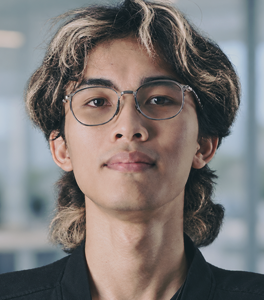
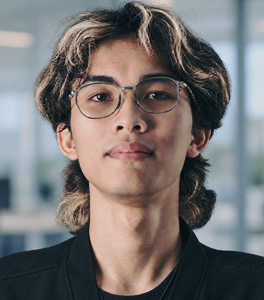
Photos: Nicho-matched crop with head room, more contrast; fixed supergraphic column

diff --git a/DmitryKorpachev.html b/DmitryKorpachev.html
@@ -2,11 +2,11 @@
 <!-- Altriix email signature, option B (photo right). Images are hosted; no CSS backgrounds, so Outlook keeps every element. -->
 <table width="480" cellpadding="0" cellspacing="0" border="0" bgcolor="#FFFFFF" style="width:480px; border-collapse:collapse; border:1px solid #ECEEF1; background-color:#FFFFFF;"><tr>
 <td width="348" valign="top" style="width:348px; padding:0;">
-  <table width="348" cellpadding="0" cellspacing="0" border="0" style="width:348px; border-collapse:collapse;">
+  <table width="348" cellpadding="0" cellspacing="0" border="0" style="width:348px; border-collapse:collapse; table-layout:fixed;">
     <tr>
       <td width="148" height="66" valign="top" style="width:148px; height:66px; padding:12px 0 0 12px;"><a href="https://altriix.ai" style="text-decoration:none;"><img src="https://ibnuirgiy-ops.github.io/altriix-email-assets/altriix-logo-navy.png" alt="Altriix" width="57" height="19" style="width:57px; height:19px; display:block; border:0;" /></a></td>
       <td width="54" height="78" valign="top" style="width:54px; height:78px; padding:0; line-height:0; font-size:0;"><img src="https://ibnuirgiy-ops.github.io/altriix-email-assets/sig-sg-mark.png" alt="" width="54" height="78" style="width:54px; height:78px; display:block; border:0;" /></td>
-      <td valign="top" align="right" height="66" style="height:66px; padding:12px 12px 0 0; font-family:'Onest',Arial,Helvetica,sans-serif; mso-line-height-rule:exactly; font-size:13px; line-height:18px; color:#3D4856; text-align:right; white-space:nowrap;"><a href="mailto:skorpadim@gmail.com" style="color:#3D4856; text-decoration:none;"><font face="Arial, sans-serif" color="#3D4856"><span style="font-family:'Onest',Arial,Helvetica,sans-serif; color:#3D4856; text-decoration:none; font-size:13px;">skorpadim@gmail.com</span></font></a></td>
+      <td width="122" valign="top" align="right" height="66" style="width:122px; height:66px; padding:12px 12px 0 0; font-family:'Onest',Arial,Helvetica,sans-serif; mso-line-height-rule:exactly; font-size:13px; line-height:18px; color:#3D4856; text-align:right; white-space:nowrap; overflow:visible; direction:rtl;"><a href="mailto:skorpadim@gmail.com" style="color:#3D4856; text-decoration:none;"><font face="Arial, sans-serif" color="#3D4856"><span style="font-family:'Onest',Arial,Helvetica,sans-serif; color:#3D4856; text-decoration:none; font-size:13px;">skorpadim@gmail.com</span></font></a></td>
     </tr>
     <tr><td colspan="3" valign="bottom" height="60" style="height:60px; padding:0 12px 12px 12px; vertical-align:bottom;">
       <table cellpadding="0" cellspacing="0" border="0" style="border-collapse:collapse;">

diff --git a/PaulineJouvet.html b/PaulineJouvet.html
@@ -2,11 +2,11 @@
 <!-- Altriix email signature, option B (photo right). Images are hosted; no CSS backgrounds, so Outlook keeps every element. -->
 <table width="480" cellpadding="0" cellspacing="0" border="0" bgcolor="#FFFFFF" style="width:480px; border-collapse:collapse; border:1px solid #ECEEF1; background-color:#FFFFFF;"><tr>
 <td width="348" valign="top" style="width:348px; padding:0;">
-  <table width="348" cellpadding="0" cellspacing="0" border="0" style="width:348px; border-collapse:collapse;">
+  <table width="348" cellpadding="0" cellspacing="0" border="0" style="width:348px; border-collapse:collapse; table-layout:fixed;">
     <tr>
       <td width="148" height="66" valign="top" style="width:148px; height:66px; padding:12px 0 0 12px;"><a href="https://altriix.ai" style="text-decoration:none;"><img src="https://ibnuirgiy-ops.github.io/altriix-email-assets/altriix-logo-navy.png" alt="Altriix" width="57" height="19" style="width:57px; height:19px; display:block; border:0;" /></a></td>
       <td width="54" height="78" valign="top" style="width:54px; height:78px; padding:0; line-height:0; font-size:0;"><img src="https://ibnuirgiy-ops.github.io/altriix-email-assets/sig-sg-mark.png" alt="" width="54" height="78" style="width:54px; height:78px; display:block; border:0;" /></td>
-      <td valign="top" align="right" height="66" style="height:66px; padding:12px 12px 0 0; font-family:'Onest',Arial,Helvetica,sans-serif; mso-line-height-rule:exactly; font-size:13px; line-height:18px; color:#3D4856; text-align:right; white-space:nowrap;"><a href="mailto:pauline@altriix.ai" style="color:#3D4856; text-decoration:none;"><font face="Arial, sans-serif" color="#3D4856"><span style="font-family:'Onest',Arial,Helvetica,sans-serif; color:#3D4856; text-decoration:none; font-size:13px;">pauline@altriix.ai</span></font></a></td>
+      <td width="122" valign="top" align="right" height="66" style="width:122px; height:66px; padding:12px 12px 0 0; font-family:'Onest',Arial,Helvetica,sans-serif; mso-line-height-rule:exactly; font-size:13px; line-height:18px; color:#3D4856; text-align:right; white-space:nowrap; overflow:visible; direction:rtl;"><a href="mailto:pauline@altriix.ai" style="color:#3D4856; text-decoration:none;"><font face="Arial, sans-serif" color="#3D4856"><span style="font-family:'Onest',Arial,Helvetica,sans-serif; color:#3D4856; text-decoration:none; font-size:13px;">pauline@altriix.ai</span></font></a></td>
     </tr>
     <tr><td colspan="3" valign="bottom" height="60" style="height:60px; padding:0 12px 12px 12px; vertical-align:bottom;">
       <table cellpadding="0" cellspacing="0" border="0" style="border-collapse:collapse;">

diff --git a/AdnaneTahri.html b/AdnaneTahri.html
@@ -2,11 +2,11 @@
 <!-- Altriix email signature, option B (photo right). Images are hosted; no CSS backgrounds, so Outlook keeps every element. -->
 <table width="480" cellpadding="0" cellspacing="0" border="0" bgcolor="#FFFFFF" style="width:480px; border-collapse:collapse; border:1px solid #ECEEF1; background-color:#FFFFFF;"><tr>
 <td width="348" valign="top" style="width:348px; padding:0;">
-  <table width="348" cellpadding="0" cellspacing="0" border="0" style="width:348px; border-collapse:collapse;">
+  <table width="348" cellpadding="0" cellspacing="0" border="0" style="width:348px; border-collapse:collapse; table-layout:fixed;">
     <tr>
       <td width="148" height="66" valign="top" style="width:148px; height:66px; padding:12px 0 0 12px;"><a href="https://altriix.ai" style="text-decoration:none;"><img src="https://ibnuirgiy-ops.github.io/altriix-email-assets/altriix-logo-navy.png" alt="Altriix" width="57" height="19" style="width:57px; height:19px; display:block; border:0;" /></a></td>
       <td width="54" height="78" valign="top" style="width:54px; height:78px; padding:0; line-height:0; font-size:0;"><img src="https://ibnuirgiy-ops.github.io/altriix-email-assets/sig-sg-mark.png" alt="" width="54" height="78" style="width:54px; height:78px; display:block; border:0;" /></td>
-      <td valign="top" align="right" height="66" style="height:66px; padding:12px 12px 0 0; font-family:'Onest',Arial,Helvetica,sans-serif; mso-line-height-rule:exactly; font-size:13px; line-height:18px; color:#3D4856; text-align:right; white-space:nowrap;"><a href="mailto:adnane@altriix.ai" style="color:#3D4856; text-decoration:none;"><font face="Arial, sans-serif" color="#3D4856"><span style="font-family:'Onest',Arial,Helvetica,sans-serif; color:#3D4856; text-decoration:none; font-size:13px;">adnane@altriix.ai</span></font></a></td>
+      <td width="122" valign="top" align="right" height="66" style="width:122px; height:66px; padding:12px 12px 0 0; font-family:'Onest',Arial,Helvetica,sans-serif; mso-line-height-rule:exactly; font-size:13px; line-height:18px; color:#3D4856; text-align:right; white-space:nowrap; overflow:visible; direction:rtl;"><a href="mailto:adnane@altriix.ai" style="color:#3D4856; text-decoration:none;"><font face="Arial, sans-serif" color="#3D4856"><span style="font-family:'Onest',Arial,Helvetica,sans-serif; color:#3D4856; text-decoration:none; font-size:13px;">adnane@altriix.ai</span></font></a></td>
     </tr>
     <tr><td colspan="3" valign="bottom" height="60" style="height:60px; padding:0 12px 12px 12px; vertical-align:bottom;">
       <table cellpadding="0" cellspacing="0" border="0" style="border-collapse:collapse;">

diff --git a/GilangPratihata.html b/GilangPratihata.html
@@ -2,11 +2,11 @@
 <!-- Altriix email signature, option B (photo right). Images are hosted; no CSS backgrounds, so Outlook keeps every element. -->
 <table width="480" cellpadding="0" cellspacing="0" border="0" bgcolor="#FFFFFF" style="width:480px; border-collapse:collapse; border:1px solid #ECEEF1; background-color:#FFFFFF;"><tr>
 <td width="348" valign="top" style="width:348px; padding:0;">
-  <table width="348" cellpadding="0" cellspacing="0" border="0" style="width:348px; border-collapse:collapse;">
+  <table width="348" cellpadding="0" cellspacing="0" border="0" style="width:348px; border-collapse:collapse; table-layout:fixed;">
     <tr>
       <td width="148" height="66" valign="top" style="width:148px; height:66px; padding:12px 0 0 12px;"><a href="https://altriix.ai" style="text-decoration:none;"><img src="https://ibnuirgiy-ops.github.io/altriix-email-assets/altriix-logo-navy.png" alt="Altriix" width="57" height="19" style="width:57px; height:19px; display:block; border:0;" /></a></td>
       <td width="54" height="78" valign="top" style="width:54px; height:78px; padding:0; line-height:0; font-size:0;"><img src="https://ibnuirgiy-ops.github.io/altriix-email-assets/sig-sg-mark.png" alt="" width="54" height="78" style="width:54px; height:78px; display:block; border:0;" /></td>
-      <td valign="top" align="right" height="66" style="height:66px; padding:12px 12px 0 0; font-family:'Onest',Arial,Helvetica,sans-serif; mso-line-height-rule:exactly; font-size:13px; line-height:18px; color:#3D4856; text-align:right; white-space:nowrap;"><a href="mailto:gilang@altriix.ai" style="color:#3D4856; text-decoration:none;"><font face="Arial, sans-serif" color="#3D4856"><span style="font-family:'Onest',Arial,Helvetica,sans-serif; color:#3D4856; text-decoration:none; font-size:13px;">gilang@altriix.ai</span></font></a></td>
+      <td width="122" valign="top" align="right" height="66" style="width:122px; height:66px; padding:12px 12px 0 0; font-family:'Onest',Arial,Helvetica,sans-serif; mso-line-height-rule:exactly; font-size:13px; line-height:18px; color:#3D4856; text-align:right; white-space:nowrap; overflow:visible; direction:rtl;"><a href="mailto:gilang@altriix.ai" style="color:#3D4856; text-decoration:none;"><font face="Arial, sans-serif" color="#3D4856"><span style="font-family:'Onest',Arial,Helvetica,sans-serif; color:#3D4856; text-decoration:none; font-size:13px;">gilang@altriix.ai</span></font></a></td>
     </tr>
     <tr><td colspan="3" valign="bottom" height="60" style="height:60px; padding:0 12px 12px 12px; vertical-align:bottom;">
       <table cellpadding="0" cellspacing="0" border="0" style="border-collapse:collapse;">

diff --git a/AzlanRafar.html b/AzlanRafar.html
@@ -2,11 +2,11 @@
 <!-- Altriix email signature, option B (photo right). Images are hosted; no CSS backgrounds, so Outlook keeps every element. -->
 <table width="480" cellpadding="0" cellspacing="0" border="0" bgcolor="#FFFFFF" style="width:480px; border-collapse:collapse; border:1px solid #ECEEF1; background-color:#FFFFFF;"><tr>
 <td width="348" valign="top" style="width:348px; padding:0;">
-  <table width="348" cellpadding="0" cellspacing="0" border="0" style="width:348px; border-collapse:collapse;">
+  <table width="348" cellpadding="0" cellspacing="0" border="0" style="width:348px; border-collapse:collapse; table-layout:fixed;">
     <tr>
       <td width="148" height="66" valign="top" style="width:148px; height:66px; padding:12px 0 0 12px;"><a href="https://altriix.ai" style="text-decoration:none;"><img src="https://ibnuirgiy-ops.github.io/altriix-email-assets/altriix-logo-navy.png" alt="Altriix" width="57" height="19" style="width:57px; height:19px; display:block; border:0;" /></a></td>
       <td width="54" height="78" valign="top" style="width:54px; height:78px; padding:0; line-height:0; font-size:0;"><img src="https://ibnuirgiy-ops.github.io/altriix-email-assets/sig-sg-mark.png" alt="" width="54" height="78" style="width:54px; height:78px; display:block; border:0;" /></td>
-      <td valign="top" align="right" height="66" style="height:66px; padding:12px 12px 0 0; font-family:'Onest',Arial,Helvetica,sans-serif; mso-line-height-rule:exactly; font-size:13px; line-height:18px; color:#3D4856; text-align:right; white-space:nowrap;"><a href="mailto:azlan@altriix.ai" style="color:#3D4856; text-decoration:none;"><font face="Arial, sans-serif" color="#3D4856"><span style="font-family:'Onest',Arial,Helvetica,sans-serif; color:#3D4856; text-decoration:none; font-size:13px;">azlan@altriix.ai</span></font></a></td>
+      <td width="122" valign="top" align="right" height="66" style="width:122px; height:66px; padding:12px 12px 0 0; font-family:'Onest',Arial,Helvetica,sans-serif; mso-line-height-rule:exactly; font-size:13px; line-height:18px; color:#3D4856; text-align:right; white-space:nowrap; overflow:visible; direction:rtl;"><a href="mailto:azlan@altriix.ai" style="color:#3D4856; text-decoration:none;"><font face="Arial, sans-serif" color="#3D4856"><span style="font-family:'Onest',Arial,Helvetica,sans-serif; color:#3D4856; text-decoration:none; font-size:13px;">azlan@altriix.ai</span></font></a></td>
     </tr>
     <tr><td colspan="3" valign="bottom" height="60" style="height:60px; padding:0 12px 12px 12px; vertical-align:bottom;">
       <table cellpadding="0" cellspacing="0" border="0" style="border-collapse:collapse;">

diff --git a/NicholasLindartono.html b/NicholasLindartono.html
@@ -2,11 +2,11 @@
 <!-- Altriix email signature, option B (photo right). Images are hosted; no CSS backgrounds, so Outlook keeps every element. -->
 <table width="480" cellpadding="0" cellspacing="0" border="0" bgcolor="#FFFFFF" style="width:480px; border-collapse:collapse; border:1px solid #ECEEF1; background-color:#FFFFFF;"><tr>
 <td width="348" valign="top" style="width:348px; padding:0;">
-  <table width="348" cellpadding="0" cellspacing="0" border="0" style="width:348px; border-collapse:collapse;">
+  <table width="348" cellpadding="0" cellspacing="0" border="0" style="width:348px; border-collapse:collapse; table-layout:fixed;">
     <tr>
       <td width="148" height="66" valign="top" style="width:148px; height:66px; padding:12px 0 0 12px;"><a href="https://altriix.ai" style="text-decoration:none;"><img src="https://ibnuirgiy-ops.github.io/altriix-email-assets/altriix-logo-navy.png" alt="Altriix" width="57" height="19" style="width:57px; height:19px; display:block; border:0;" /></a></td>
       <td width="54" height="78" valign="top" style="width:54px; height:78px; padding:0; line-height:0; font-size:0;"><img src="https://ibnuirgiy-ops.github.io/altriix-email-assets/sig-sg-mark.png" alt="" width="54" height="78" style="width:54px; height:78px; display:block; border:0;" /></td>
-      <td valign="top" align="right" height="66" style="height:66px; padding:12px 12px 0 0; font-family:'Onest',Arial,Helvetica,sans-serif; mso-line-height-rule:exactly; font-size:13px; line-height:18px; color:#3D4856; text-align:right; white-space:nowrap;"><a href="mailto:nicho@altriix.ai" style="color:#3D4856; text-decoration:none;"><font face="Arial, sans-serif" color="#3D4856"><span style="font-family:'Onest',Arial,Helvetica,sans-serif; color:#3D4856; text-decoration:none; font-size:13px;">nicho@altriix.ai</span></font></a></td>
+      <td width="122" valign="top" align="right" height="66" style="width:122px; height:66px; padding:12px 12px 0 0; font-family:'Onest',Arial,Helvetica,sans-serif; mso-line-height-rule:exactly; font-size:13px; line-height:18px; color:#3D4856; text-align:right; white-space:nowrap; overflow:visible; direction:rtl;"><a href="mailto:nicho@altriix.ai" style="color:#3D4856; text-decoration:none;"><font face="Arial, sans-serif" color="#3D4856"><span style="font-family:'Onest',Arial,Helvetica,sans-serif; color:#3D4856; text-decoration:none; font-size:13px;">nicho@altriix.ai</span></font></a></td>
     </tr>
     <tr><td colspan="3" valign="bottom" height="60" style="height:60px; padding:0 12px 12px 12px; vertical-align:bottom;">
       <table cellpadding="0" cellspacing="0" border="0" style="border-collapse:collapse;">
